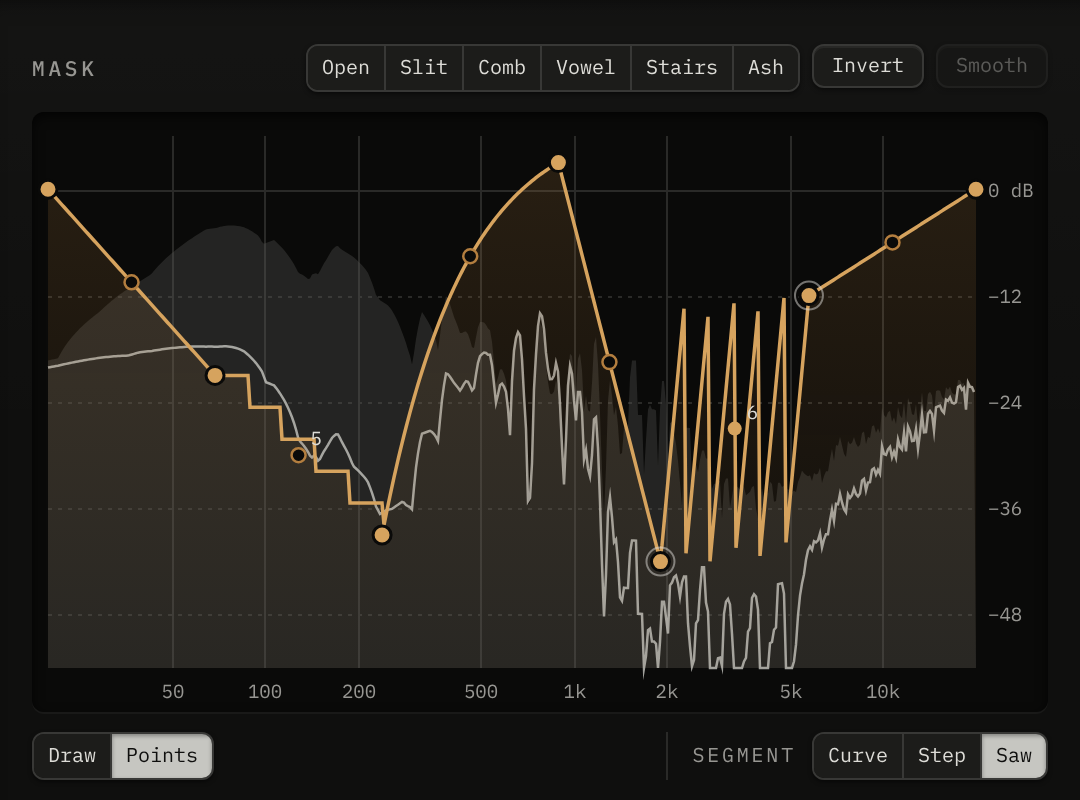
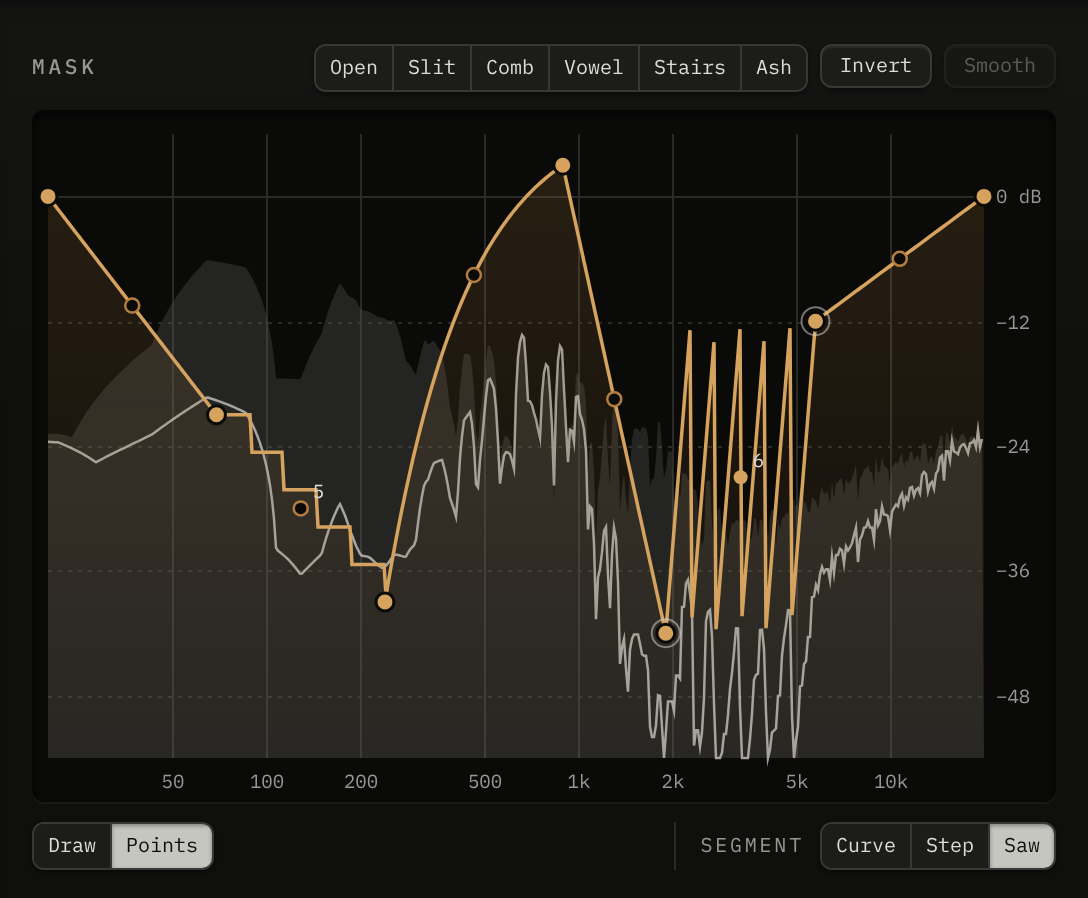
Lumen-Spectre page: LFO sync, Split, new screenshots
The window is smaller with a larger Mask, so both screenshots are new.
The Motion section now covers the tempo-synced LFO and Split.

Claude-Session: https://claude.ai/code/session_01LXEwKmXyfsAEyFPQrDrJwo

diff --git a/plugins/lumen-spectre.md b/plugins/lumen-spectre.md
@@ -31,11 +31,11 @@ Start from a shape (Open, Slit, Comb, Vowel, Stairs or Ash), invert it, or smoot
 
 Three sources can move Shift, Spread, Depth, Ghost or Smear:
 
-- **LFO:** six shapes, from a smooth sine to slow random drift.
+- **LFO:** six shapes, from a smooth sine to slow random drift, free or locked to your song's tempo from 1/2 to 1/16 notes, dotted and triplet included.
 - **ADSR:** an envelope started by every drum hit or note attack, on every beat, or by MIDI notes you play.
 - **Envelope follower:** the louder the sound, the further it moves.
 
-While the Mask moves, the shape you made stays as a solid line and what you hear is drawn beside it, so you can keep editing. One switch turns all movement off, and back on, without losing any settings.
+While the Mask moves, the shape you made stays as a solid line and what you hear is drawn beside it, so you can keep editing. **Split** moves the left and right channels apart: the LFO drifts out of step between them and the envelopes push them opposite ways, so the Mask sweeps across the stereo field. One switch turns all movement off, and back on, without losing any settings.
 
 ## Look
 
